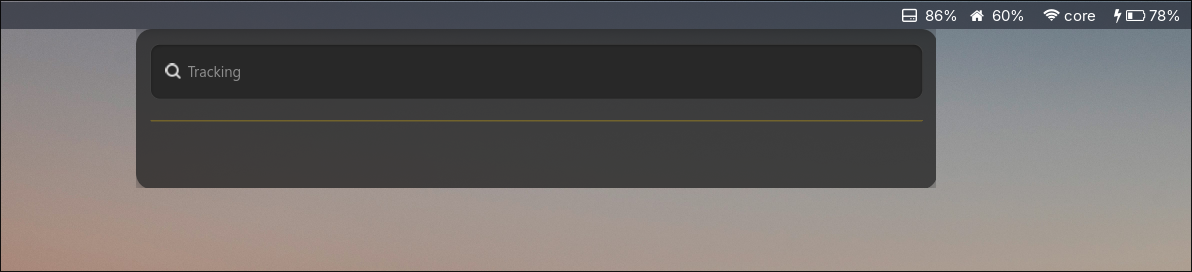
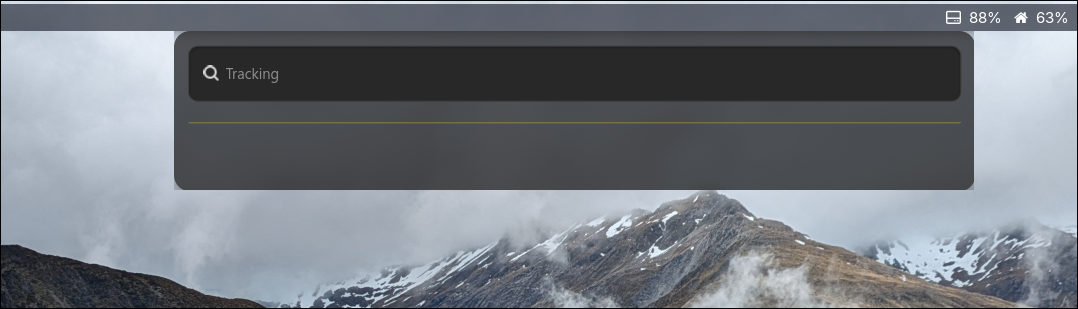
update screenshots

diff --git a/styles/DarkBlue/style.css b/styles/DarkBlue/style.css
@@ -1,0 +1,120 @@
+:root {
+  --md-primary-dark: rgba(39, 37, 164, 0.5);
+  --md-on-primary: rgba(255, 255, 255, 1);
+  --md-surface: rgba(18, 18, 18, 1);
+  --md-surface-variant: rgba(26, 26, 26, 0.5);
+  --md-outline: rgba(255, 255, 255, 0.1);
+  --md-hover: rgba(56, 56, 56, 0.7);
+  --md-entry-bg: rgba(38, 38, 38, 0.3);
+  --md-label-bg: rgba(42, 42, 42, 0.5);
+}
+
+
+* {
+  font-family: "Inter", "Segoe UI", sans-serif;
+  transition: all 250ms ease;
+  box-sizing: border-box;
+  color: #e0e0e0;
+  background-color: transparent;
+}
+
+body {
+  background-color: var(--md-surface);
+  margin: 0;
+  padding: 0;
+}
+
+#background {
+  background-color: var(--md-surface-variant);
+}
+
+#window {
+  all: unset;
+  background-color:  rgba(0, 0, 0, 0.4);
+  border-radius: 16px;
+  box-shadow: 0 8px 24px rgba(0, 0, 0, 0.5);
+  padding: 1rem;
+  max-width: 600px;
+  margin: 2rem auto;
+}
+
+#window #outer-box {
+  margin: 0;
+}
+
+#window #outer-box #input {
+  background-color: var(--md-label-bg);
+  color: #f0f0f0;
+  border: 1px solid var(--md-outline);
+  border-radius: 10px;
+  padding: 0.75rem 1rem;
+  margin-bottom: 1rem;
+  font-size: 1rem;
+  box-shadow: inset 0 1px 3px rgba(0, 0, 0, 0.4);
+}
+
+#window #outer-box #input:focus,
+#window #outer-box #input:focus-visible,
+#window #outer-box #input:active {
+  background-color: #2d2d2d;
+  border: 1px solid var(--md-primary-dark);
+  box-shadow: 0 0 0 3px var(--md-focus);
+  outline: none;
+}
+
+#window #outer-box #scroll {
+  border-top: 1px solid var(--md-outline);
+  padding-top: 0.5rem;
+  margin-top: 0.5rem;
+}
+
+#window #outer-box #scroll #inner-box #entry {
+  color: #f5f5f5;
+  background-color: var(--md-entry-bg);
+  padding: 0.7rem 1rem;
+  border-radius: 8px;
+  margin-bottom: 0.4rem;
+  display: flex;
+  align-items: center;
+  transition: background-color 250ms ease;
+  cursor: pointer;
+}
+
+#window #outer-box #scroll #inner-box #entry:hover {
+  background-color: var(--md-hover);
+}
+
+#window #outer-box #scroll #inner-box #entry:selected {
+  background-color: var(--md-primary-dark);
+  color: var(--md-on-primary);
+}
+
+#window #outer-box #scroll #inner-box #entry #img {
+  margin-right: 0.6rem;
+  width: 1rem;
+  height: 1rem;
+  opacity: 0.8;
+  flex-shrink: 0;
+}
+
+#window #outer-box #scroll #inner-box #entry:hover #img {
+  filter: brightness(1.15);
+}
+
+#custom-key-label-box {
+  background-color: var(--md-label-bg);
+  border-radius: 8px;
+  padding: 0.5em 1em;
+  margin: 0.5em 0 0.5em 0.5em;
+  font-weight: 500;
+  color: #eaeaea;
+  box-shadow: inset 0 1px 2px rgba(255, 255, 255, 0.03);
+  flex-shrink: 0;
+  user-select: none;
+}
+
+#custom-key-hint-text {
+  margin-left: 0.75em;
+  opacity: 0.6;
+  font-size: 0.95rem;
+}

diff --git a/README.md b/README.md
@@ -192,6 +192,41 @@ The possibilities are endless! Here are some powerful examples of what you can b
 
 Found a compatibility issue? We welcome feedback and contributions! While 100% wofi compatibility isn't guaranteed, we're happy to help you transition to Worf.
 
+
+## Styles
+
+The background image used for all screenshots can be found in `images/background.jpg` and is taken in Arthurs Pass New Zealand.
+
+### Dmenu
+![Dmenu](styles/dmenu/example.png)
+
+### Launcher
+![launcher](styles/launcher/example.png)
+
+### Compact
+![compact](styles/compact/example.png)
+
+### IndigoEdge
+![IndigoEdge](styles/IndigoEdge/example.png)
+
+### Emoji
+![emoji](styles/emoji/example.png)
+
+### GlacierPrism
+![GlacierPrism](styles/GlacierPrism/example.png)
+
+### Math
+![math](styles/math/example.png)
+
+### AmberNight
+![AmberNight](styles/AmberNight/example.png)
+
+### Relaxed
+![relaxed](styles/relaxed/example.png)
+                                          
+### DarkBlue
+![darkblue](styles/DarkBlue/example.png)
+
 ---
 
 ## 📄 License
